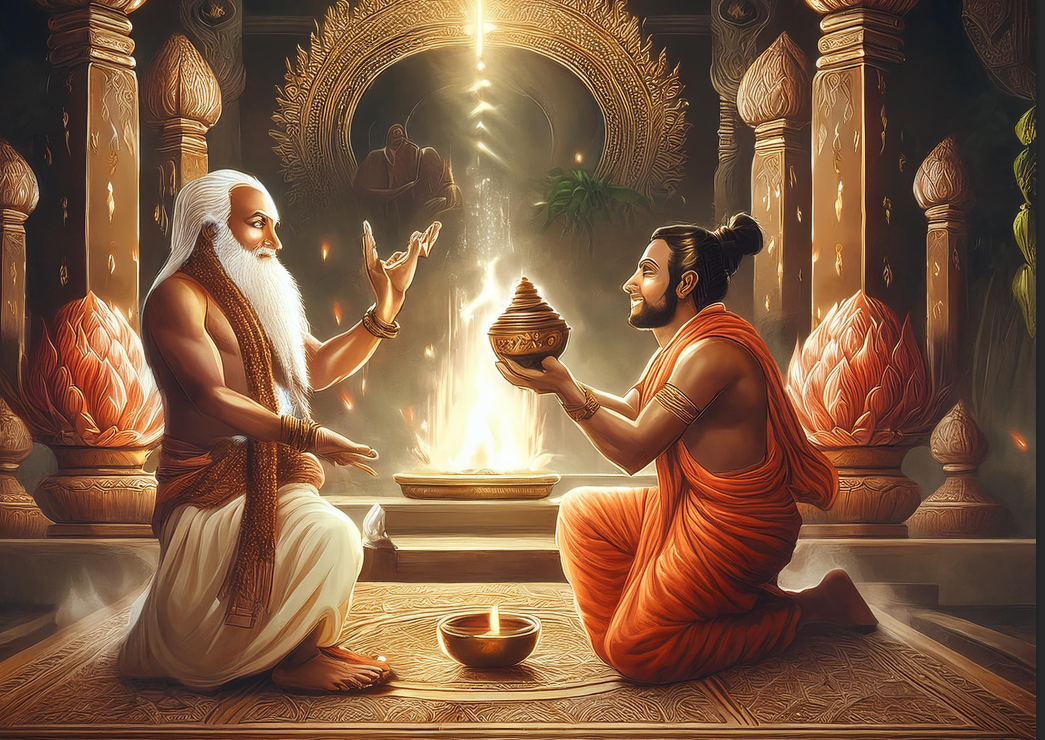
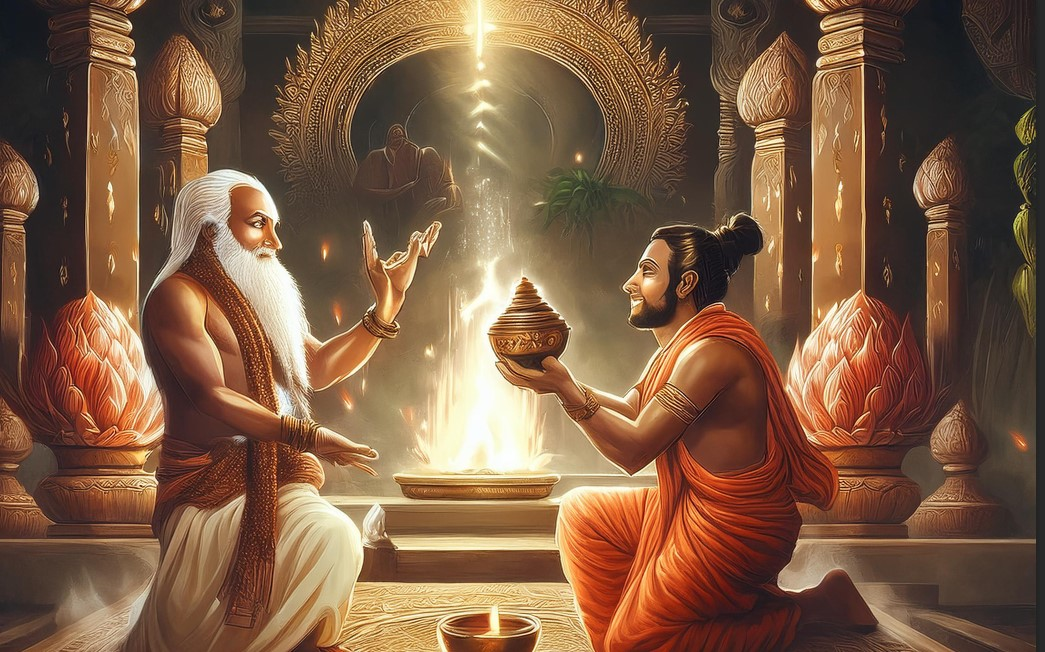
added images and finished the project, also made some minor changess

diff --git a/styles.css b/styles.css
@@ -216,3 +216,42 @@ body {
 .dialogue {
     line-height: 1.4;
 }
+
+
+/* for zoom out */
+body {
+    transform: scale(0.8);
+    transform-origin: top left;
+    width: 125%; 
+    height: 125%;
+    overflow-x: hidden;
+  }
+  
+  .container {
+    max-width: 1250px; 
+  }
+
+  @media (min-width: 1200px) {
+    body {
+      transform: scale(0.8);
+      width: 125%;
+      height: 125%;
+    }
+  }
+  
+  @media (max-width: 1199px) {
+    body {
+      transform: scale(0.9);
+      width: 111.11%;
+      height: 111.11%;
+    }
+  }
+  
+  @media (max-width: 768px) {
+    body {
+      transform: scale(1);
+      width: 100%;
+      height: 100%;
+    }
+  }
+  
